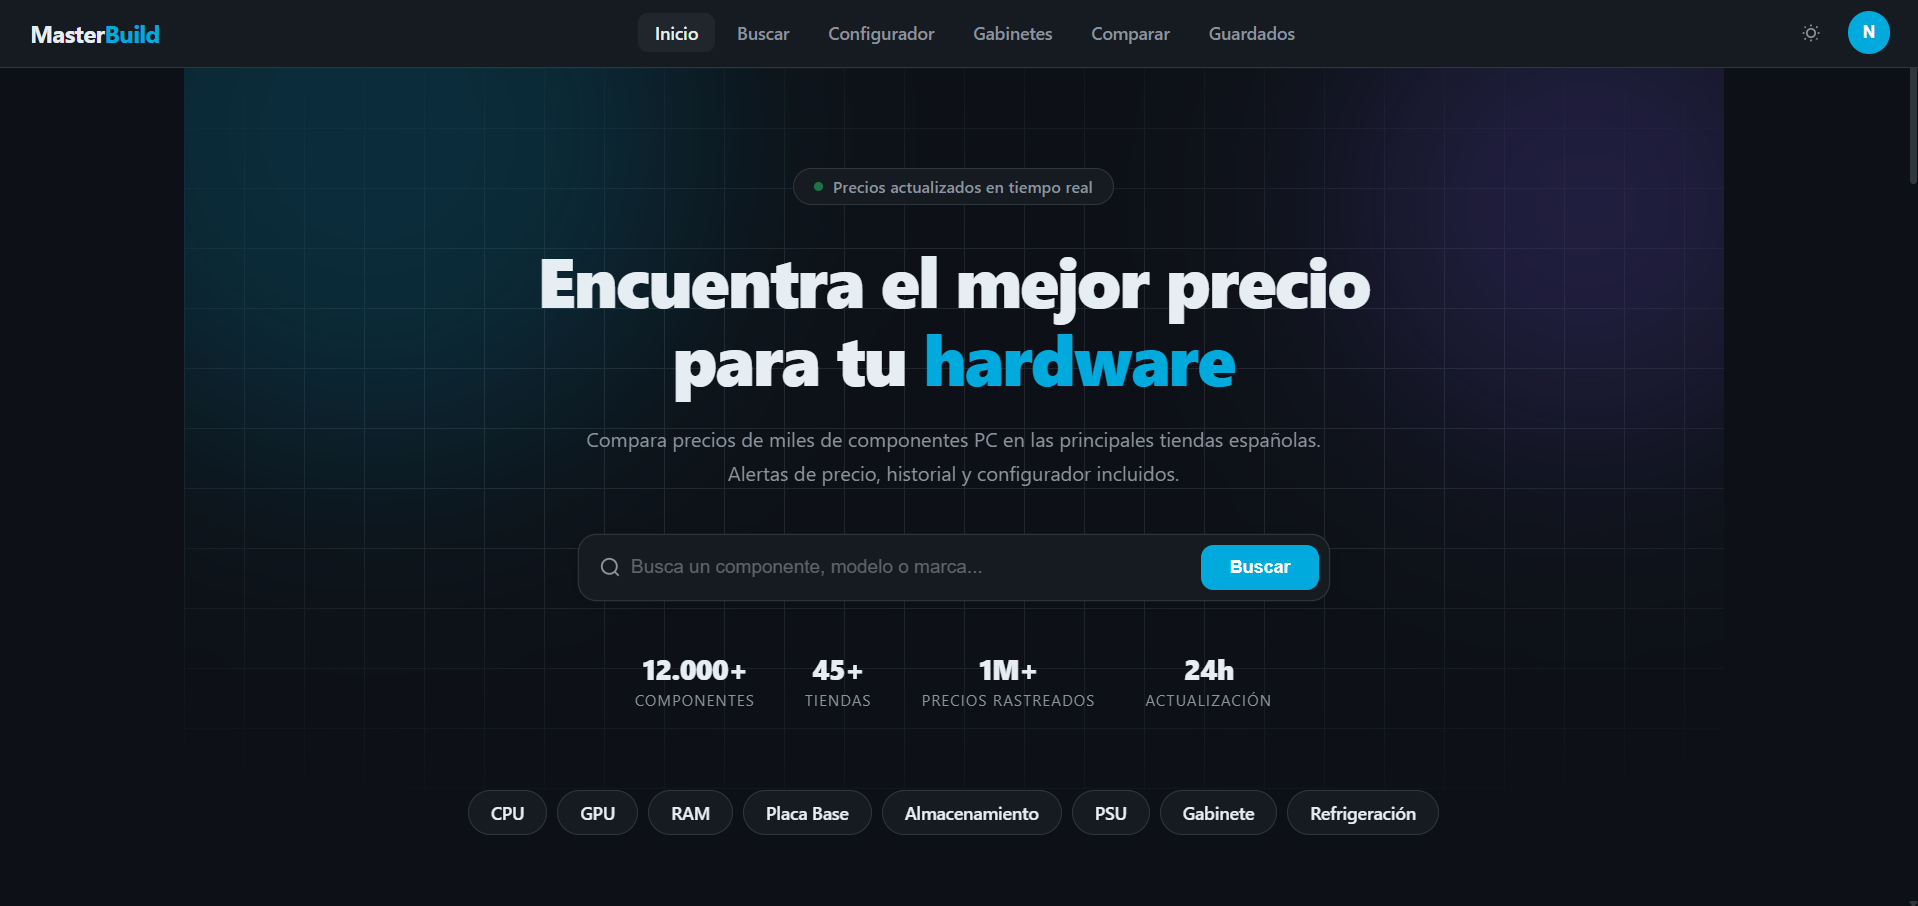
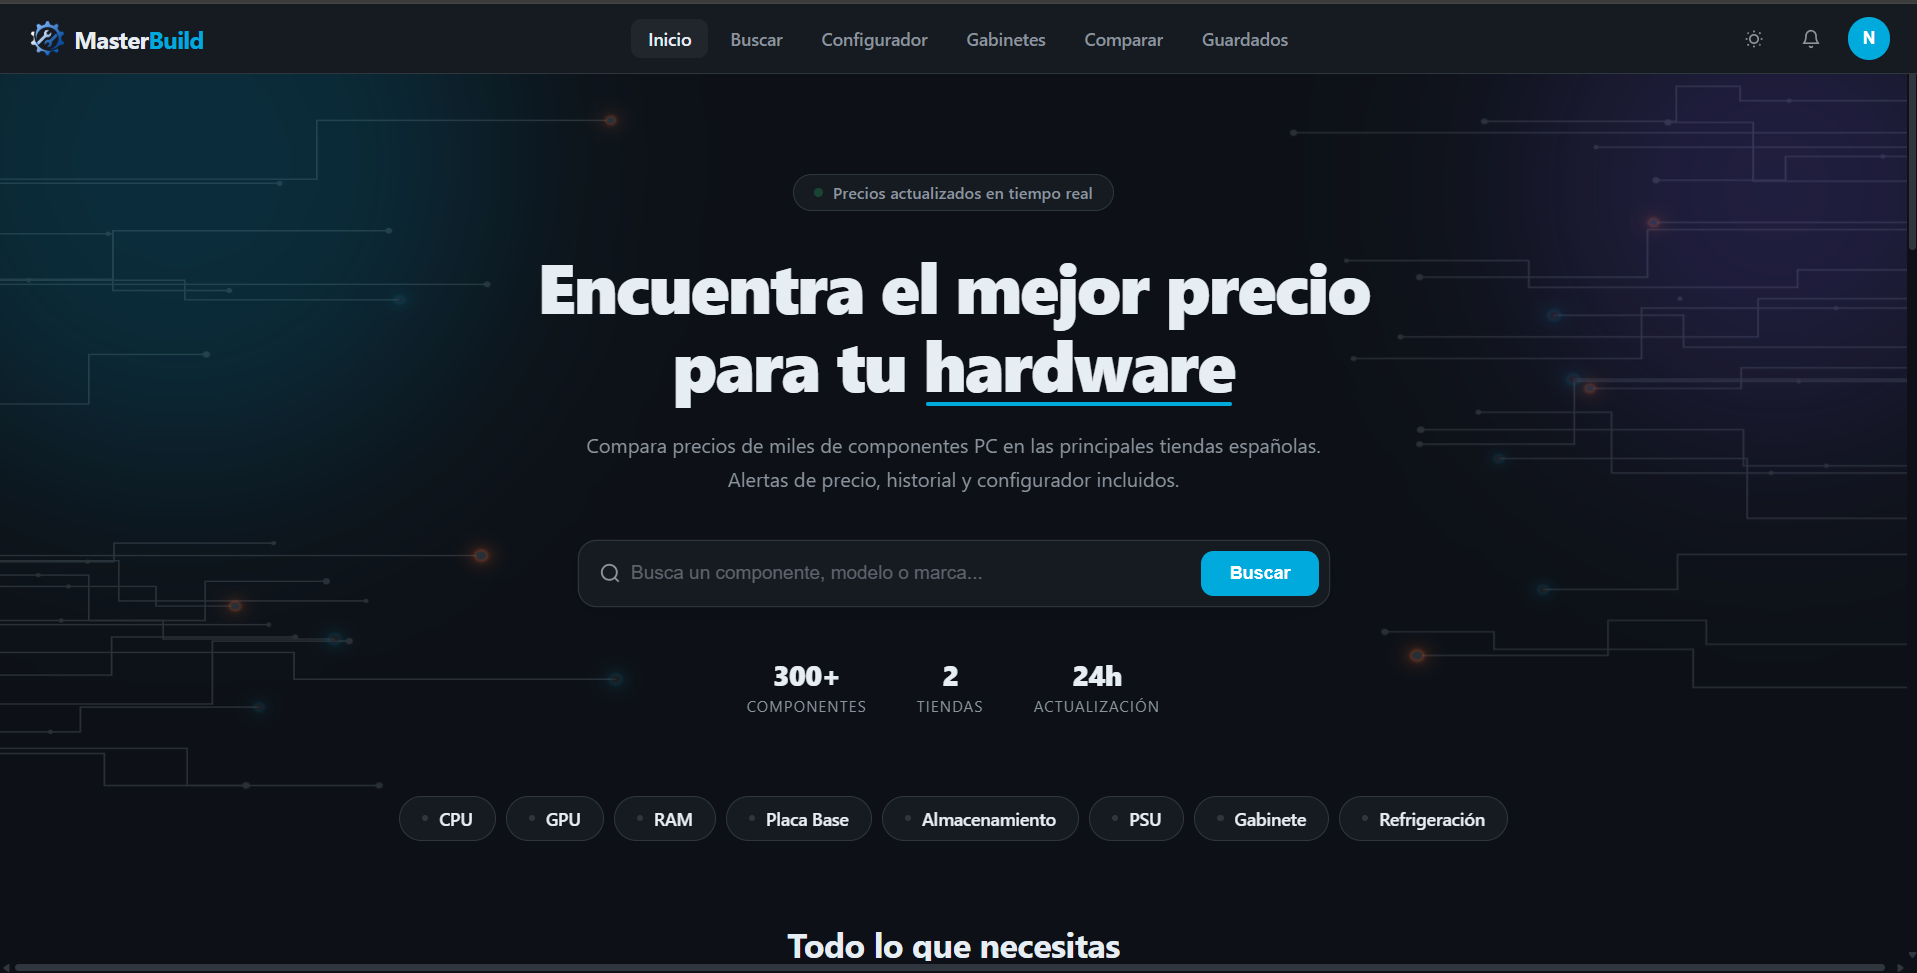
fix(img projects): actualizacion de imagenes de proyectos

diff --git a/src/data/portfolio.js b/src/data/portfolio.js
@@ -158,7 +158,6 @@ export const projects = [
     },
     images: [
       "/img/portafolio-2026/portafolio2026_1.png",
-      "/img/portafolio-2026/portafolio2026_2.png",
     ],
     tags: ["React", "Vite", "Three.js", "D3.js", "Framer Motion", "EmailJS", "CSS3"],
     tagIcons: [
@@ -196,10 +195,6 @@ export const projects = [
     },
     images: [
       "/img/MasterBuild/MasterBuild_1.png",
-      "/img/MasterBuild/MasterBuild_2.png",
-      "/img/MasterBuild/MasterBuild_3.png",
-      "/img/MasterBuild/MasterBuild_4.png",
-      "/img/MasterBuild/MasterBuild_5.png",
     ],
     tags: ["Angular", "Laravel", "TypeScript", "PostgreSQL", "Azure", "Docker", "Cloudflare", "Three.js", "ApexCharts"],
     tagIcons: [
